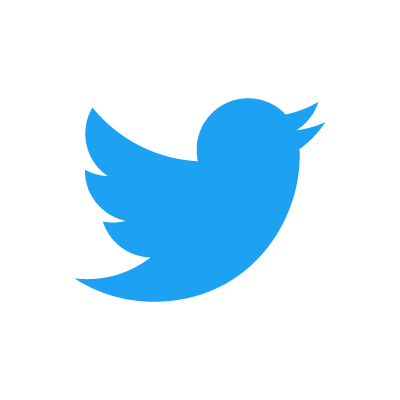
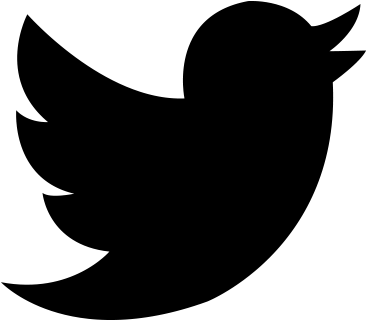
fixed footer

diff --git a/home.html b/home.html
@@ -249,10 +249,10 @@ for(var i = 0; i < cards.length; i++){
   <div class="container text-center">
     <!-- <small> 2020</small> -->
     <!-- <medium><a href="https://twitter.com/multiplicity_x"> Twitter </a>, <a href="https://www.instagram.com/multiplicity_x/"> Instagram </a>, and <a href="https://github.com/multiplicitytech/multiplicitytech.github.io"> GitHub</a></medium> -->
-        <a href="mailto:multiplicitytech@gmail.com"><img src="img/mail.png" style="height: 1.7rem;"></a>  &ensp;
-      <a href="https://twitter.com/multiplicity_x"><img src="img/twitter.png" style="height: 2.3rem;"></a> &ensp;
-      <a href="https://www.instagram.com/multiplicity_x/"><img src="img/instagram.png" style="height: 1.7rem;"></a> &ensp;
-      <a href="https://github.com/multiplicitytech/multiplicitytech.github.io"><img src="img/github.png" style="height: 2.3rem;"> 
+        <a href="mailto:multiplicitytech@gmail.com"><img class="navy-filter" src="img/mail.png" style="height: 2.1rem;"></a>  &emsp;
+      <a href="https://twitter.com/multiplicity_x"><img class="navy-filter" src="img/twitter.png" style="height: 1.7rem;"></a> &emsp;
+      <a href="https://www.instagram.com/multiplicity_x/"><img class="navy-filter" src="img/instagram.png" style="height: 1.8rem;"></a> &emsp;
+      <a href="https://github.com/multiplicitytech/multiplicitytech.github.io"><img class="navy-filter" src="img/github.png" style="height: 2.3rem;"> 
 
 
   </div>

diff --git a/styles.css b/styles.css
@@ -18,6 +18,10 @@ header, body {
   ;
 
 }
+
+.navy-filter {
+  filter: invert(9%) sepia(45%) saturate(2722%) hue-rotate(226deg) brightness(85%) contrast(119%);
+}
 /*.navbar-brand.abs
     {
         position: absolute;
